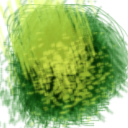
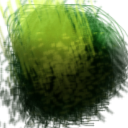
stopping point

diff --git a/index.html b/index.html
@@ -13,7 +13,7 @@ top: 0;
 left: 0;
 background:black;
 /* Scale out 2X from the corner */
--webkit-transform: scale(2.64);//, 2.0, 1.0);
+-webkit-transform: scale(1.94);//, 2.0, 1.0);
 -webkit-transform-origin: 0 0 0;
 }
 </style>
@@ -356,7 +356,7 @@ background:black;
                 new Star(   (i / numStars) * 5.0 
                             ,i / numStars
                             ,[ rndHN(43)
-                              ,rndHN(.5) - 3
+                              ,rndHN(1.1) - 3
                               ,rndHN(43)    ] )  );
         }
     }
@@ -473,7 +473,7 @@ background:black;
 
 <body onload="webGLStart();">
    
-    <canvas id="lesson09-canvas" style="border: none;" width="400" height="226"></canvas>
+    <canvas id="lesson09-canvas" style="border: none;" width="500" height="281"></canvas>
 
     
     
